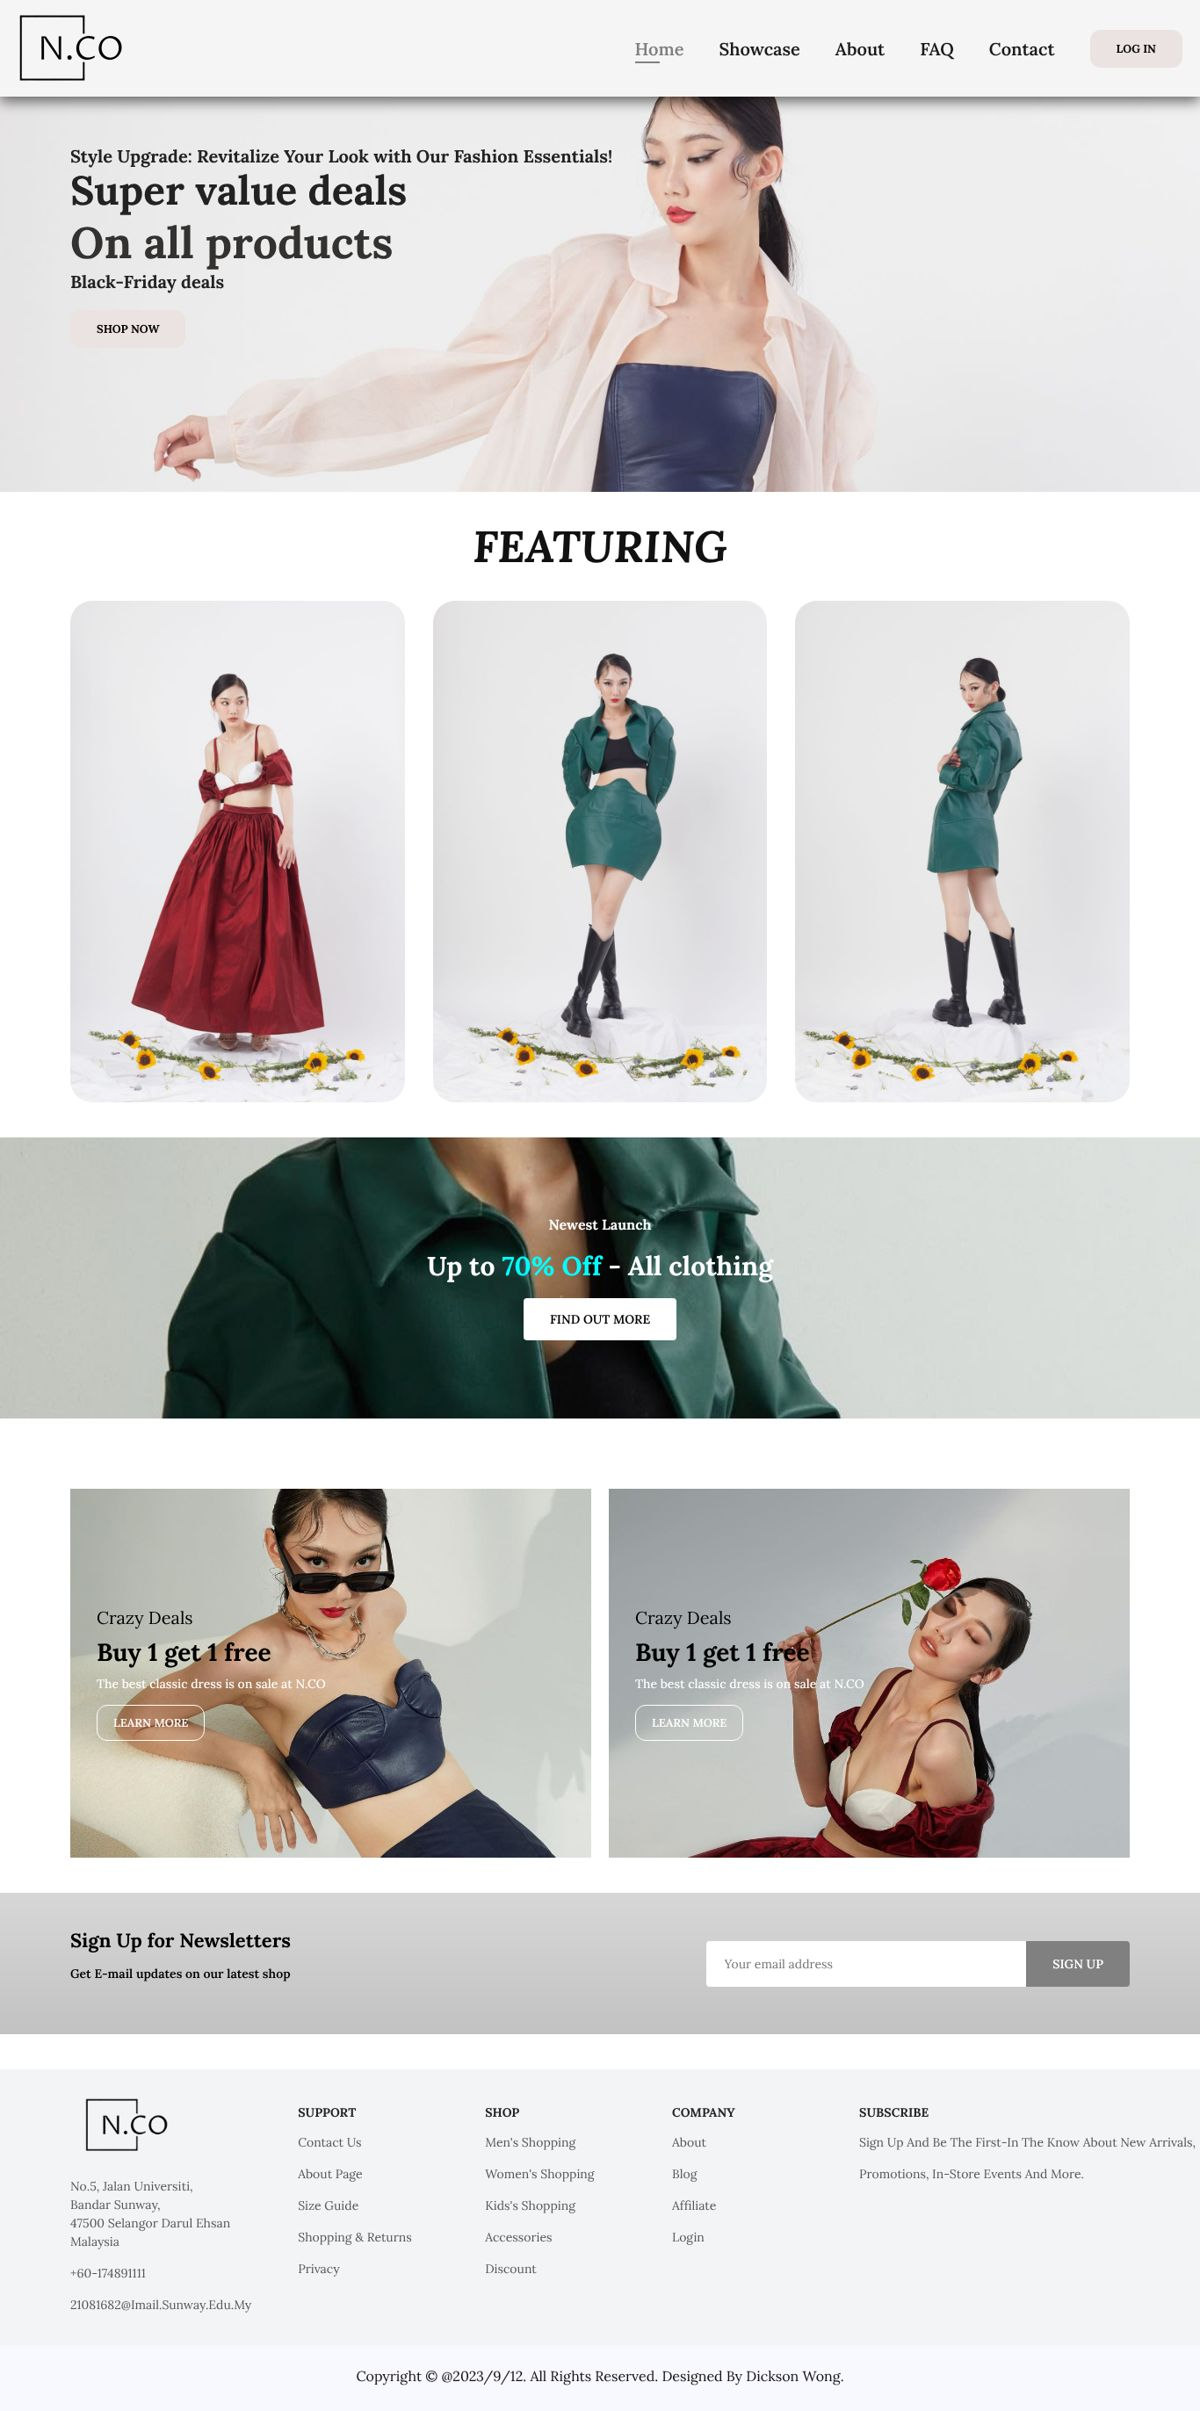
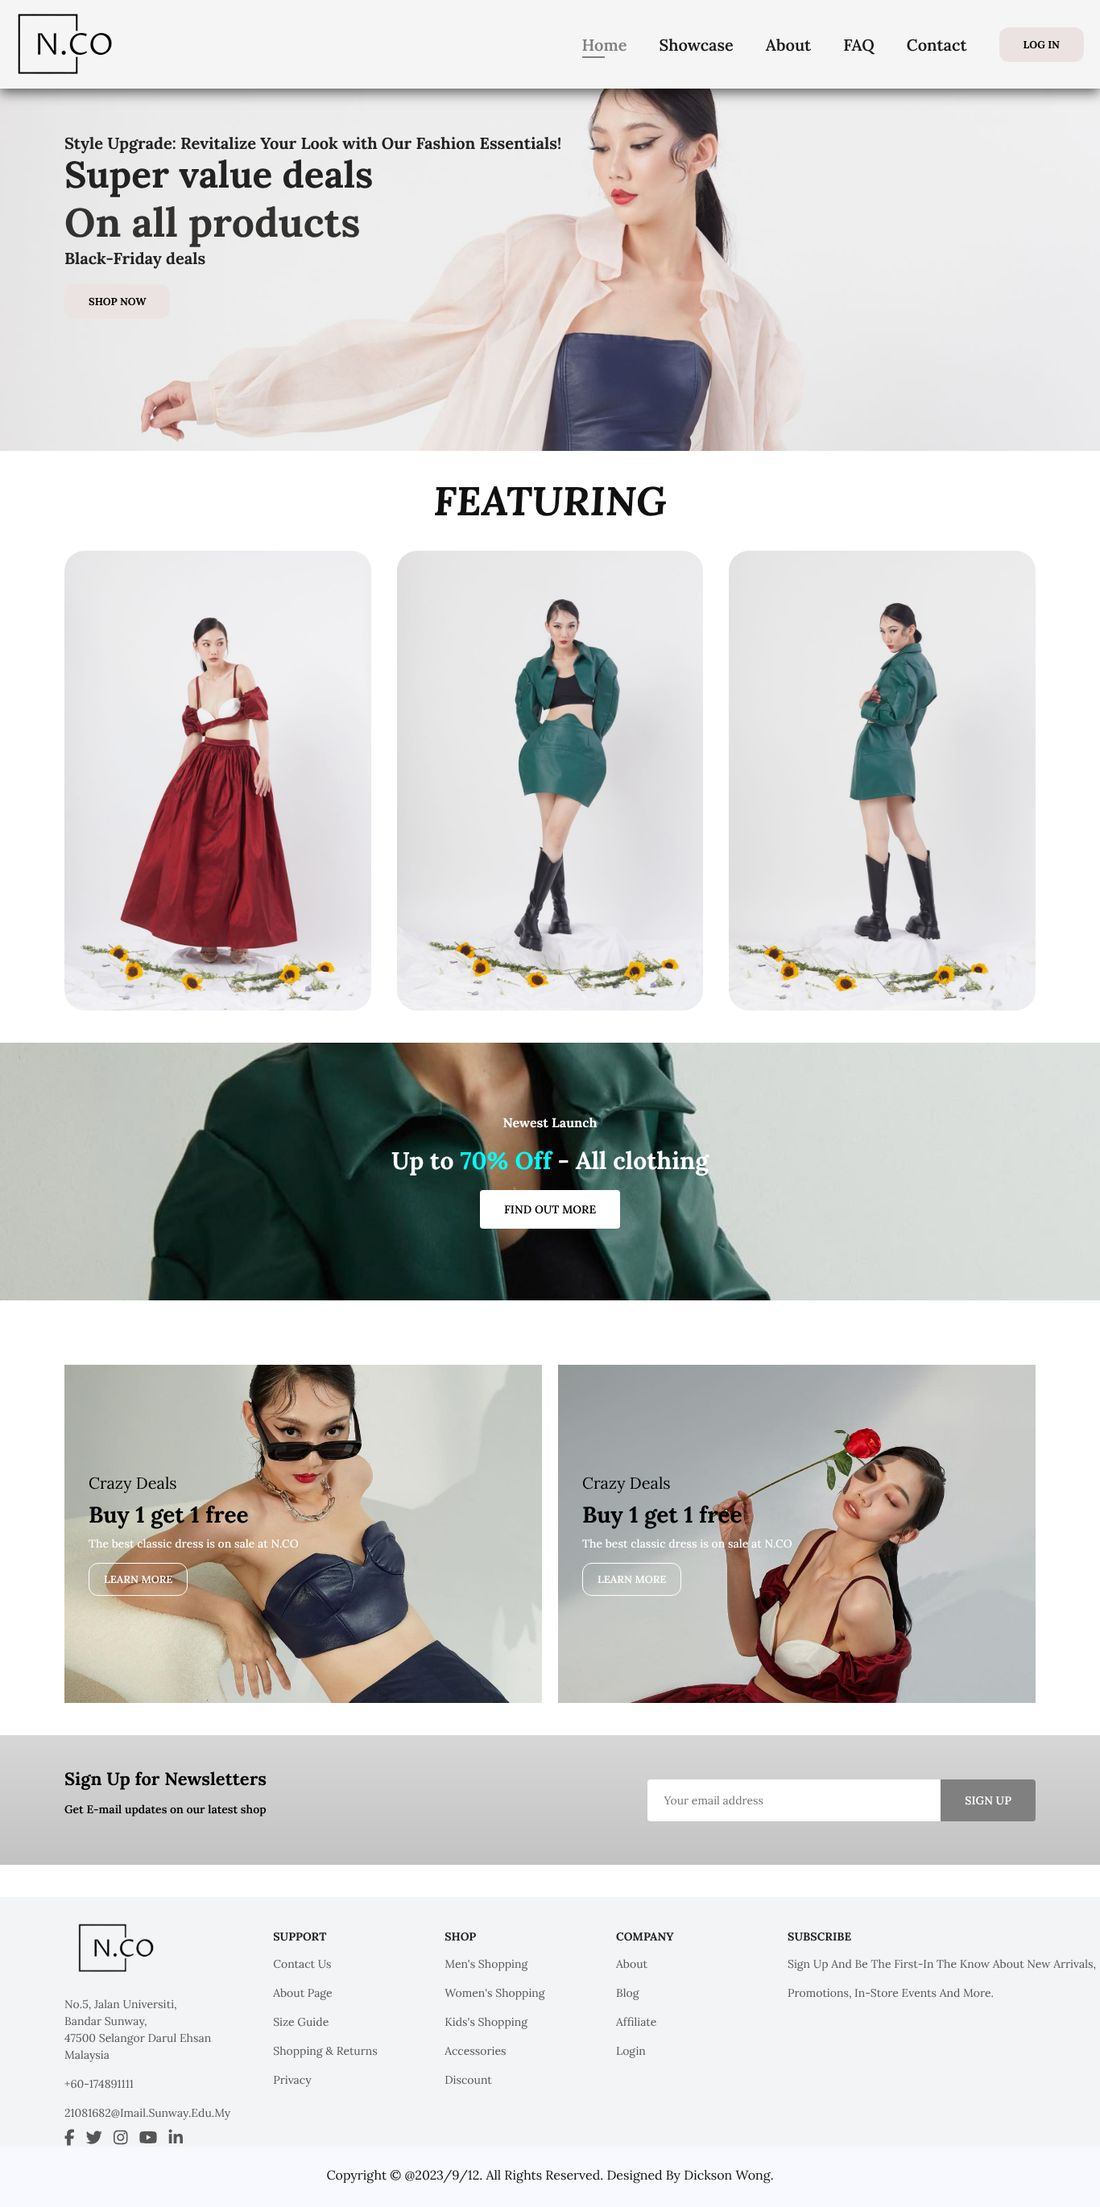
Add page screenshots and fix checkout summary

diff --git a/style.css b/style.css
@@ -858,13 +858,14 @@ img {
         height: 100vh;
         width: 300px;
         background-color: ghostwhite;
-        box-shadow: 0 40px 60px rgba(0, 0, 0, 0.1);
+        box-shadow: none;
         padding: 80px 0 0 10px;
         transition: 0.2s;
     }
 
     #navbar.active{
         right: -0px;
+        box-shadow: 0 40px 60px rgba(0, 0, 0, 0.1);
     }
     
 

diff --git a/checkout.php b/checkout.php
@@ -6,6 +6,17 @@ if(!isset($_SESSION['user_id'])){
     header("Location: index.php");
     exit();
 }
+
+// Nothing to check out? Go back to the cart
+$cart_items = isset($_SESSION['cart']) ? $_SESSION['cart'] : array();
+if (empty($cart_items)) {
+    header("Location: cart.php");
+    exit();
+}
+$total = 0;
+foreach ($cart_items as $item) {
+    $total += $item['price'] * $item['quantity'];
+}
 ?>
 
 <!DOCTYPE html>
@@ -67,6 +78,7 @@ if(!isset($_SESSION['user_id'])){
 
         .form-group input {
             width: 100%;
+            box-sizing: border-box;
             padding: 12px;
             border: 1px solid #ccc;
             border-radius: 5px;
@@ -206,10 +218,12 @@ if(!isset($_SESSION['user_id'])){
                 <span>Subtotal</span>
             </div>
             
+            <?php foreach ($cart_items as $item): ?>
             <div class="summary-row">
-                <span>White Dress x 1</span>
-                <span>$155</span>
+                <span><?php echo htmlspecialchars($item['name'], ENT_QUOTES, 'UTF-8'); ?> x <?php echo (int)$item['quantity']; ?></span>
+                <span>$<?php echo number_format($item['price'] * $item['quantity'], 2); ?></span>
             </div>
+            <?php endforeach; ?>
             
             <div class="summary-row">
                 <span>Shipping</span>
@@ -218,7 +232,7 @@ if(!isset($_SESSION['user_id'])){
 
             <div class="summary-total">
                 <span>Total</span>
-                <span>$155</span>
+                <span>$<?php echo number_format($total, 2); ?></span>
             </div>
 
             <button type="submit" form="checkout-form" class="btn-place-order">PLACE ORDER</button>

diff --git a/account.php b/account.php
@@ -211,7 +211,7 @@ if ($_SERVER['REQUEST_METHOD'] == "POST" && isset($_POST['update_password_btn'])
 
         @media (max-width: 800px) {
             .account-container { flex-direction: column; }
-            .sidebar, .content-card { width: 100%; }
+            .sidebar, .content-card { width: 100%; max-width: none; box-sizing: border-box; }
         }
     </style>
 </head>

diff --git a/README.md b/README.md
@@ -2,9 +2,7 @@
 
 A full-stack online clothing store built for a university web development module. Customers can browse the collection, register and log in, add products to a cart that is saved to their account, check out with shipping details, and view their order history.
 
-> A static (front-end only) version of the same brand is live at **[dwong3393-creator.github.io/naeo-clothing-website](https://dwong3393-creator.github.io/naeo-clothing-website/)**. This repository is the PHP version with the shopping features, so it needs a PHP server and MySQL to run.
-
-![Home page](screenshots/desktop-home.jpg)
+> This is a PHP + MySQL project, so it can't run on GitHub Pages. Screenshots of every page are below, and the setup steps show how to run it on your own computer.
 
 ## Features
 
@@ -65,9 +63,78 @@ The database login is set in `db.php` (XAMPP's default user `root` with no passw
 
 ## Screenshots
 
-| Product page | Cart on a phone |
+### Shop pages
+
+| Home | Showcase |
 |---|---|
-| ![Product page](screenshots/desktop-product.jpg) | ![Mobile cart](screenshots/mobile-cart.jpg) |
+| ![Home](screenshots/desktop-home.jpg) | ![Showcase](screenshots/desktop-showcase.jpg) |
+
+| Showcase (page 2) | Product page |
+|---|---|
+| ![Showcase page 2](screenshots/desktop-showcase-2.jpg) | ![Product page](screenshots/desktop-product.jpg) |
+
+<details>
+<summary><b>All 12 product pages</b> (click to expand)</summary>
+
+| Product 2 | Product 3 | Product 4 |
+|---|---|---|
+| ![Product 2](screenshots/desktop-product-2.jpg) | ![Product 3](screenshots/desktop-product-3.jpg) | ![Product 4](screenshots/desktop-product-4.jpg) |
+
+| Product 5 | Product 6 | Product 7 |
+|---|---|---|
+| ![Product 5](screenshots/desktop-product-5.jpg) | ![Product 6](screenshots/desktop-product-6.jpg) | ![Product 7](screenshots/desktop-product-7.jpg) |
+
+| Product 8 | Product 9 | Product 10 |
+|---|---|---|
+| ![Product 8](screenshots/desktop-product-8.jpg) | ![Product 9](screenshots/desktop-product-9.jpg) | ![Product 10](screenshots/desktop-product-10.jpg) |
+
+| Product 11 | Product 12 | |
+|---|---|---|
+| ![Product 11](screenshots/desktop-product-11.jpg) | ![Product 12](screenshots/desktop-product-12.jpg) | |
+
+</details>
+
+### Cart and checkout
+
+| Cart | Checkout |
+|---|---|
+| ![Cart](screenshots/desktop-cart.jpg) | ![Checkout](screenshots/desktop-checkout.jpg) |
+
+| Order confirmed | |
+|---|---|
+| ![Order confirmed](screenshots/desktop-order-confirmed.jpg) | |
+
+### Accounts
+
+| Log in | Register |
+|---|---|
+| ![Log in](screenshots/desktop-login.jpg) | ![Register](screenshots/desktop-register.jpg) |
+
+| My Account – change password | My Account – order history |
+|---|---|
+| ![Account security tab](screenshots/desktop-account.jpg) | ![Account orders tab](screenshots/desktop-account-orders.jpg) |
+
+| My Account – shipping address | |
+|---|---|
+| ![Account address tab](screenshots/desktop-account-address.jpg) | |
+
+### Information pages
+
+| About | FAQ | Contact |
+|---|---|---|
+| ![About](screenshots/desktop-about.jpg) | ![FAQ](screenshots/desktop-faq.jpg) | ![Contact](screenshots/desktop-contact.jpg) |
+
+### On a phone
+
+| Home | Showcase | Product |
+|---|---|---|
+| ![Mobile home](screenshots/mobile-home.jpg) | ![Mobile showcase](screenshots/mobile-showcase.jpg) | ![Mobile product](screenshots/mobile-product.jpg) |
+
+| Log in | Cart | My Account |
+|---|---|---|
+| ![Mobile log in](screenshots/mobile-login.jpg) | ![Mobile cart](screenshots/mobile-cart.jpg) | ![Mobile account](screenshots/mobile-account.jpg) |
+
+*The account, cart and order pages show sample data.*
 
 ## Author
 
